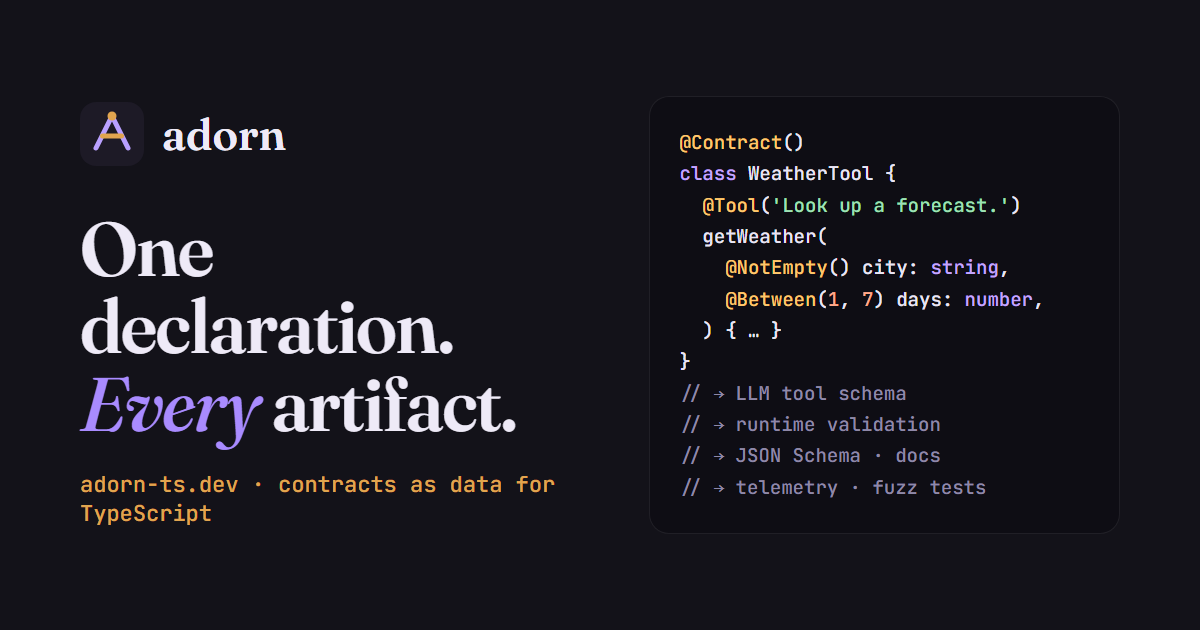
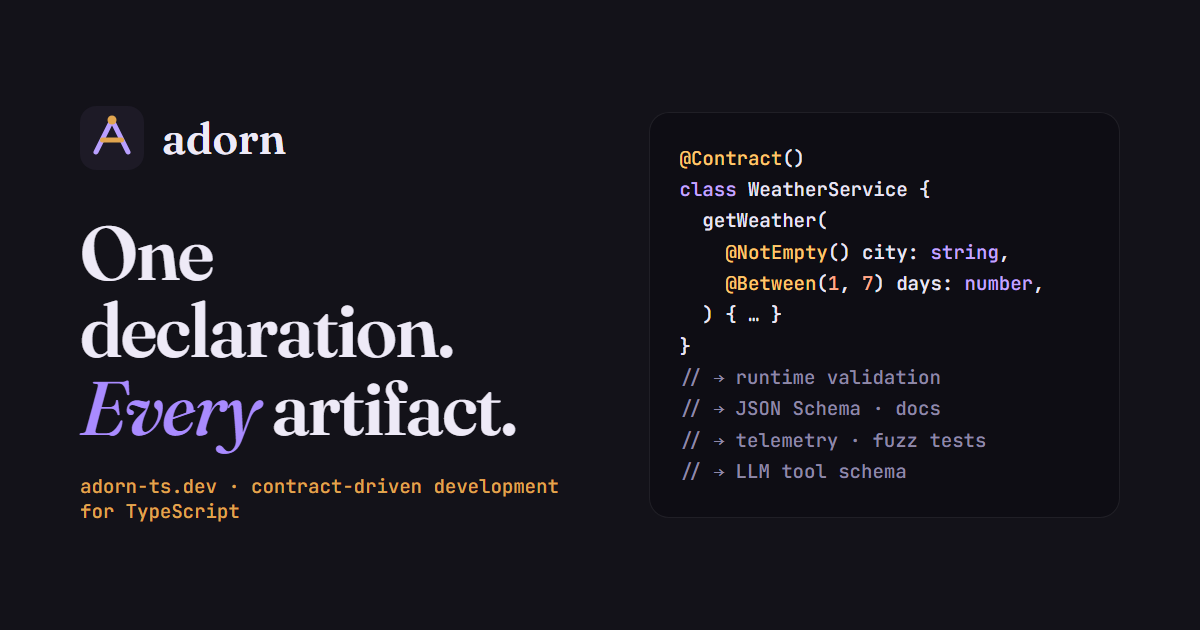
docs(site): social card and footers follow the contract-driven positioning
The og:image source still showed the tooled WeatherTool with @Tool and
listed the LLM tool schema first under "contracts as data". It now shows
the canonical WeatherService with no @Tool, lists runtime validation
first and the tool schema last, and uses the contract-driven tagline;
social-card.png was re-rendered from it with headless Edge at 1200x630.
The architecture, playground and reference footers used the old
tagline; they now match the homepage.

diff --git a/scripts/social-card.html b/scripts/social-card.html
@@ -17,18 +17,17 @@
 <div>
   <div class="brand"><img src="../public/assets/logo.svg" alt="">adorn</div>
   <h1>One declaration.<br><em>Every</em> artifact.</h1>
-  <p>adorn-ts.dev · contracts as data for TypeScript</p>
+  <p>adorn-ts.dev · contract-driven development for TypeScript</p>
 </div>
 <pre><span class="d">@Contract</span>()
-<span class="k">class</span> WeatherTool {
-  <span class="d">@Tool</span>(<span class="s">'Look up a forecast.'</span>)
+<span class="k">class</span> WeatherService {
   getWeather(
     <span class="d">@NotEmpty</span>() city: <span class="k">string</span>,
     <span class="d">@Between</span>(<span class="n">1</span>, <span class="n">7</span>) days: <span class="k">number</span>,
   ) { … }
 }
-<span class="c">// → LLM tool schema
-// → runtime validation
+<span class="c">// → runtime validation
 // → JSON Schema · docs
-// → telemetry · fuzz tests</span></pre>
+// → telemetry · fuzz tests
+// → LLM tool schema</span></pre>
 </div></body></html>

diff --git a/public/reference.html b/public/reference.html
@@ -454,7 +454,7 @@ setObservationSink(createOtelSink());
 
   <footer class="site-footer">
     <div class="container footer-inner">
-      <span>adorn · contracts as data for TypeScript · MIT © <span data-year>2026</span> natwhite</span>
+      <span>adorn · contract-driven development for TypeScript · MIT © <span data-year>2026</span> natwhite</span>
       <nav class="footer-links" aria-label="Footer">
         <a href="index.html">Overview</a>
         <a href="architecture.html">Architecture</a>

diff --git a/public/architecture.html b/public/architecture.html
@@ -366,7 +366,7 @@ const parameters = toolSchemaFrom({
 
   <footer class="site-footer">
     <div class="container footer-inner">
-      <span>adorn · contracts as data for TypeScript · MIT © <span data-year>2026</span> natwhite</span>
+      <span>adorn · contract-driven development for TypeScript · MIT © <span data-year>2026</span> natwhite</span>
       <nav class="footer-links" aria-label="Footer">
         <a href="index.html">Overview</a>
         <a href="architecture.html">Architecture</a>

diff --git a/public/playground.html b/public/playground.html
@@ -106,7 +106,7 @@
 
   <footer class="site-footer">
     <div class="container footer-inner">
-      <span>adorn · contracts as data for TypeScript · MIT © <span data-year>2026</span> natwhite</span>
+      <span>adorn · contract-driven development for TypeScript · MIT © <span data-year>2026</span> natwhite</span>
       <nav class="footer-links" aria-label="Footer">
         <a href="index.html">Overview</a>
         <a href="playground.html">Playground</a>
